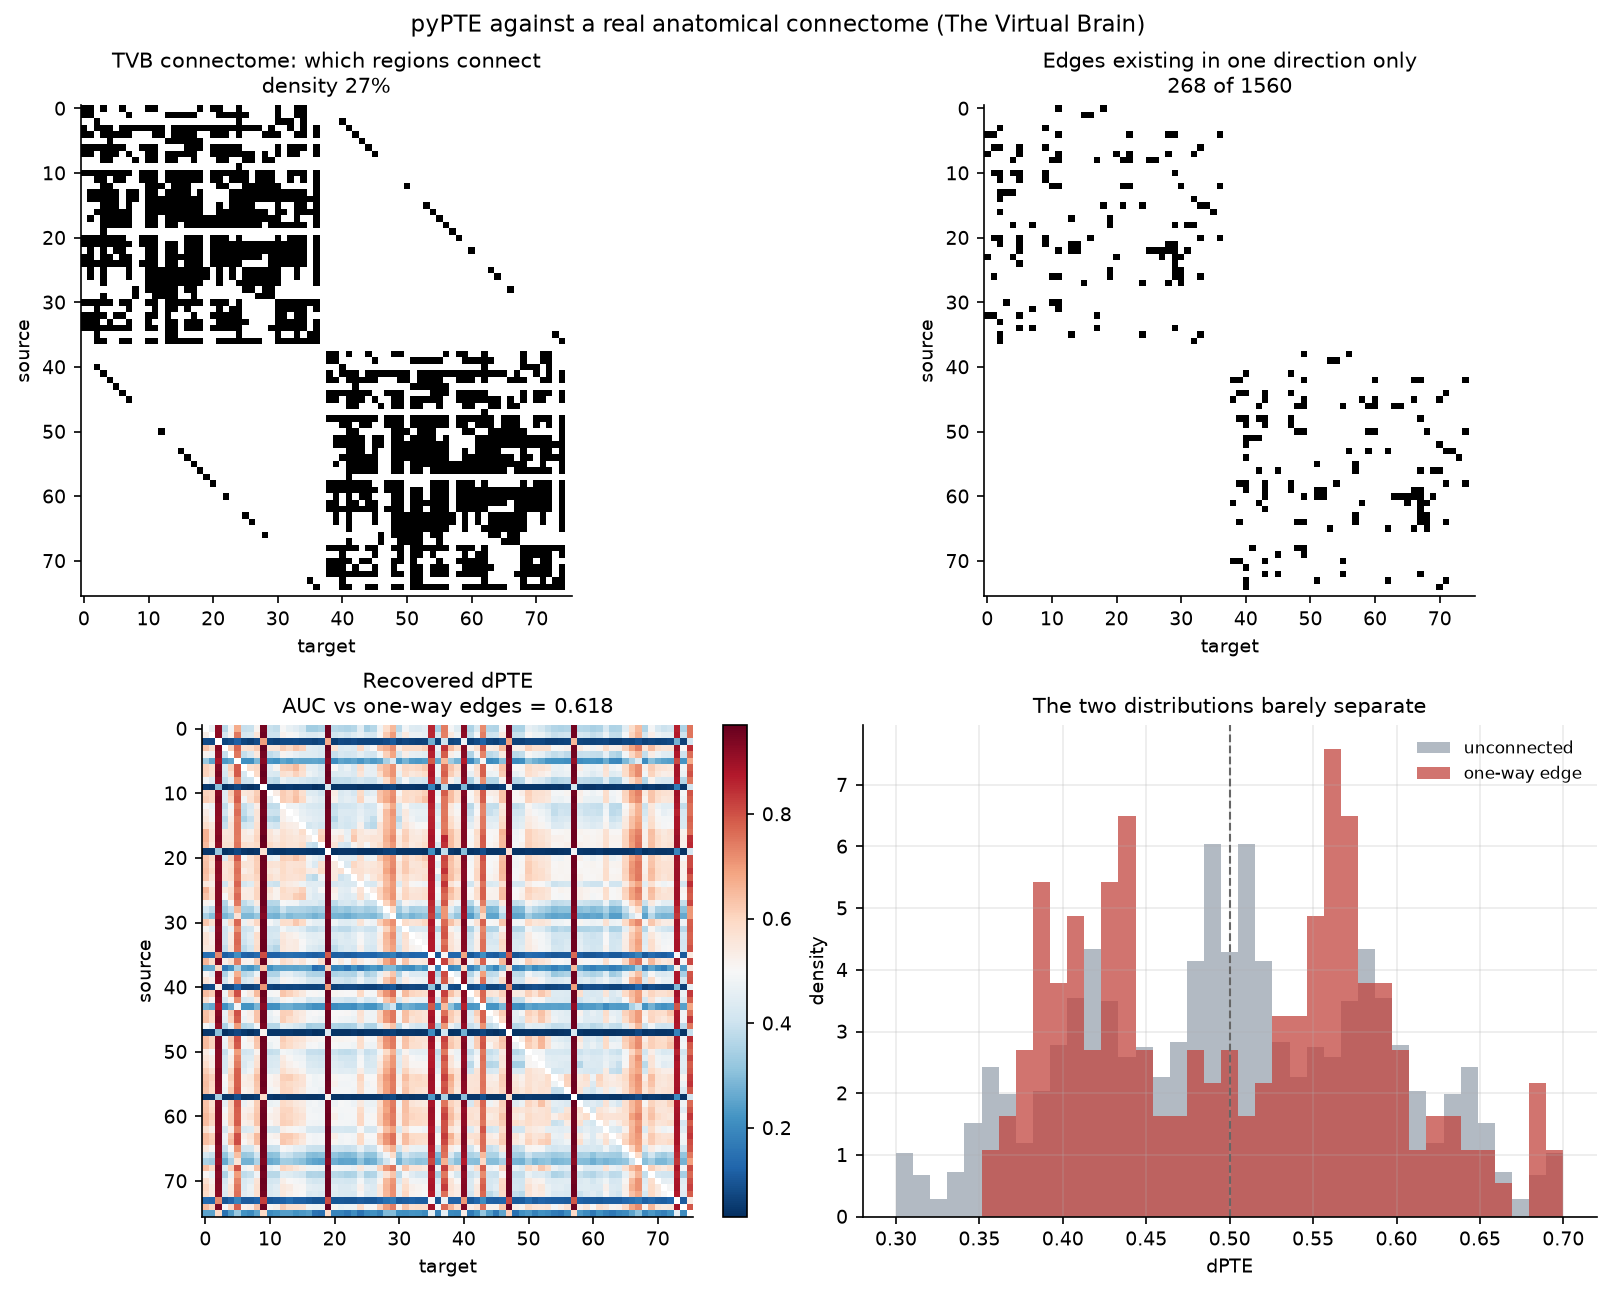
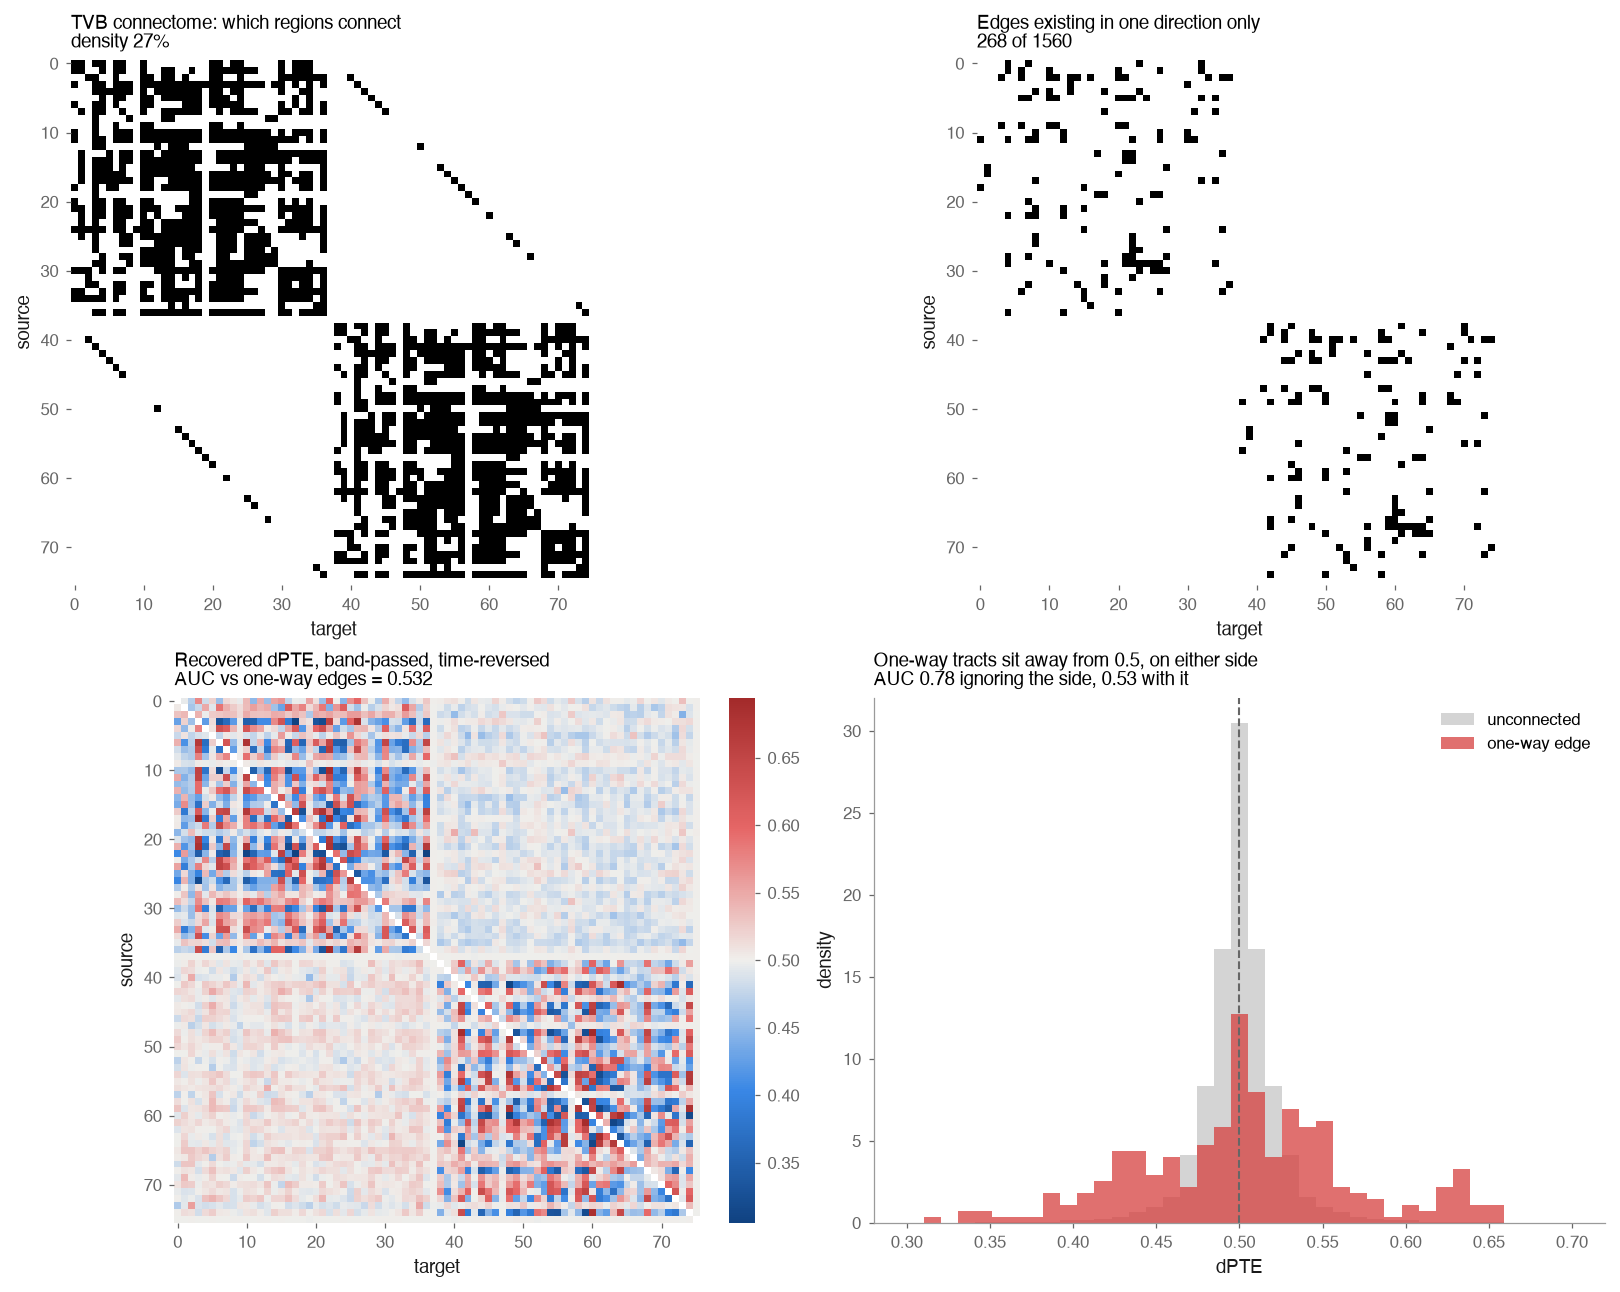
fix(examples): score TVB against its connectome the right way round (#106)
TVB stores weights[to, from]: its coupling sums weights[i, j] times
region j into region i. The example and the large-networks tutorial
scored dPTE[i, j] against weights[i, j], i.e. the transposed anatomy.
The published AUC of 0.62 was region amplitude (rank-identical to input
strength) scored against that transpose; plain dPTE against the real
orientation scores 0.39, below chance.

Both now band-pass, use time reversal and locking bins through shared
helpers. dPTE then sees that regions connect (AUC 0.78 on |dPTE - 0.5|)
but not which way (0.53).

diff --git a/examples/tvb_connectome.py b/examples/tvb_connectome.py
@@ -3,14 +3,21 @@ Run pyPTE against a real anatomical connectome, and mostly fail.
 ================================================================
 
 Uses The Virtual Brain's 76-region tract-tracing connectome, so the
-directionality is real anatomy rather than something we invented. pyPTE only
-reaches AUC 0.62 here, against 0.96 to 1.00 on the sparse synthetic networks in
-the other examples. The connectome is 27% dense, so nearly every pair of regions
-is joined by a short indirect path, and dPTE ranks indirect paths above direct
-ones.
+directionality is real anatomy rather than something we invented. Band-passed
+and analysed with time reversal, dPTE sees that two regions are connected but
+not which way: how far it sits from 0.5, on either side, separates one-way
+tracts from unconnected pairs at an AUC of about 0.78, while its sign does so
+at about 0.53, barely above chance. The connectome is 27% dense, so nearly
+every pair of regions is also joined by short indirect paths, which can run
+either way.
 
-Scale also makes edgewise significance testing impractical: 5700 pairs need
-p below 1e-5, but N surrogates cannot go below 1/(N+1).
+Plain dPTE does worse than chance, at about 0.39. Regions that receive more
+input oscillate more strongly, which makes their rhythm cleaner, and dPTE reads
+the cleaner channel as the driver: the opposite of the anatomy. Time reversal
+cancels that.
+
+Scale also makes edgewise significance testing impractical: 2850 channel pairs
+need p below 2e-5, but N surrogates cannot go below 1/(N+1).
 
 Needs the optional TVB group:
     uv sync --group examples --group tvb
@@ -22,8 +29,8 @@ import warnings
 
 import matplotlib.pyplot as plt
 import numpy as np
-from scipy.signal import welch
-from scipy.stats import rankdata
+from scipy.signal import butter, sosfiltfilt, welch
+from scipy.stats import rankdata, spearmanr
 
 from examples.utils import style
 from examples.utils.plotting import FIGURES, plot_matrix, save, use_house_style
@@ -53,6 +60,30 @@ def load_tvb():
             "    uv sync --group examples --group tvb"
         ) from exc
     return simulator, models, connectivity, coupling, integrators, monitors, noise
+
+
+def tracts(brain) -> np.ndarray:
+    """Tract strengths with ``[i, j]`` the connection from region i to j.
+
+    TVB stores ``weights[to, from]``: its coupling sums ``weights[i, j]``
+    times region j's activity into region i. dPTE's ``[i, j]`` is flow from i
+    to j, so the anatomy is the transpose.
+    """
+    return np.asarray(brain.weights).T
+
+
+def narrow_band(signal: np.ndarray) -> np.ndarray:
+    """Band-pass every region to 1.5 Hz either side of the shared peak."""
+    freqs, power = welch(signal, fs=FS, nperseg=1024)
+    peak = float(freqs[np.argmax(power.mean(axis=0))])
+    band = butter(4, [peak - 1.5, peak + 1.5], btype="band", fs=FS, output="sos")
+    return sosfiltfilt(band, signal, axis=1, padlen=int(FS))
+
+
+def flow(signal: np.ndarray) -> np.ndarray:
+    """dPTE as it should be run: band-passed, time-reversed, bins for direction."""
+    dPTE, _ = PTE(narrow_band(signal), time_reversal=True, binning="locking")
+    return dPTE
 
 
 def auc(scores: np.ndarray, truth: np.ndarray) -> float:
@@ -103,7 +134,7 @@ def main(quick: bool = False) -> None:
 
     print(f"simulating {seconds:.0f}s of whole-brain activity ...")
     brain, signal = simulate(seconds)
-    weights = brain.weights
+    weights = tracts(brain)
     n_regions = weights.shape[0]
 
     freqs, power = welch(signal[0], fs=FS, nperseg=512)
@@ -117,10 +148,17 @@ def main(quick: bool = False) -> None:
     density = float((weights > 0).sum() / off_diagonal.sum())
 
     print("running PTE ...")
-    dPTE, _ = PTE(signal)
+    dPTE = flow(signal)
+    plain, _ = PTE(signal)
 
     considered = one_way | unconnected
     score = auc(dPTE[considered], one_way[considered])
+    plain_score = auc(plain[considered], one_way[considered])
+    # how far from 0.5, ignoring which side: does dPTE see a tract at all?
+    strength = np.abs(dPTE - 0.5)
+    existence_score = auc(strength[considered], one_way[considered])
+    # input received, against how strongly each region oscillates
+    amplitude_rho = float(spearmanr(weights.sum(axis=0), signal.std(axis=1)).statistic)
 
     fig, axes = plt.subplots(2, 2, figsize=(11, 8.5), constrained_layout=True)
 
@@ -146,7 +184,10 @@ def main(quick: bool = False) -> None:
     plot_matrix(
         axes[1, 0],
         dPTE,
-        title=f"Recovered dPTE\nAUC vs one-way edges = {score:.3f}",
+        title=(
+            "Recovered dPTE, band-passed, time-reversed\n"
+            f"AUC vs one-way edges = {score:.3f}"
+        ),
         center_on_half=True,
         mask_diagonal=True,
     )
@@ -173,21 +214,32 @@ def main(quick: bool = False) -> None:
     ax.set(
         xlabel="dPTE",
         ylabel="density",
-        title="The two distributions barely separate",
+        title=(
+            f"One-way tracts sit away from 0.5, on either side\n"
+            f"AUC {existence_score:.2f} ignoring the side, {score:.2f} with it"
+        ),
     )
     ax.legend(fontsize=8)
 
     save(fig, FIGURES / "tvb_connectome.png")
 
     # a second, practical obstacle at this scale: the surrogate count sets a
-    # floor of 1 / (n_surrogates + 1) on any p-value, while FDR over m*(m-1)
-    # pairs demands far smaller ones
-    n_pairs = int(off_diagonal.sum())
+    # floor of 1 / (n_surrogates + 1) on any p-value, while FDR over this many
+    # pairs demands far smaller ones. dPTE in one direction fixes the other, so
+    # Benjamini-Hochberg in effect runs over channel pairs, half the ordered ones
+    n_pairs = int(off_diagonal.sum()) // 2
     n_surrogates = 60
     print(f"surrogate testing with {n_surrogates} surrogates ...")
-    significance = surrogate_test(signal, n_surrogates=n_surrogates, seed=0)
+    significance = surrogate_test(
+        narrow_band(signal),
+        n_surrogates=n_surrogates,
+        seed=0,
+        binning="locking",
+        time_reversal=True,
+    )
     floor = 1.0 / (n_surrogates + 1)
     strictest = 0.05 / n_pairs
+    survived = int(significance.directed.sum())
 
     print("\nresults")
     print(f"  regions                       {n_regions}")
@@ -195,9 +247,12 @@ def main(quick: bool = False) -> None:
     print(f"  one-way edges                 {int(one_way.sum())}")
     print(f"  symmetric pairs               {int(symmetric.sum())}")
     print(f"  AUC, one-way vs unconnected   {score:.3f}   (0.5 = chance)")
+    print(f"  AUC with plain dPTE           {plain_score:.3f}   (below chance)")
+    print(f"  AUC of |dPTE - 0.5|           {existence_score:.3f}   (either way)")
+    print(f"  input strength vs amplitude   rho {amplitude_rho:.2f}")
     print(f"  mean dPTE on one-way edges    {dPTE[one_way].mean():.3f}")
     print(f"  mean dPTE on unconnected      {dPTE[unconnected].mean():.3f}")
-    print(f"  edges surviving surrogates    {significance.n_significant} of {n_pairs}")
+    print(f"  pairs surviving surrogates    {survived} of {n_pairs}")
     print(f"  smallest p reachable          {floor:.4f}  (1 / (surrogates + 1))")
     print(f"  strictest FDR threshold       {strictest:.2e}  (0.05 / {n_pairs})")
 
@@ -217,25 +272,27 @@ def main(quick: bool = False) -> None:
         f"AUC rose to {score:.3f}; structural recovery is documented as close to "
         "chance, so that text needs updating"
     )
+    assert existence_score > 0.65, "dPTE should still see that regions connect"
+    # and plain dPTE points against the anatomy, through amplitude
+    assert plain_score < 0.5, "plain dPTE should rank tracts below chance"
+    assert amplitude_rho > 0.8, "amplitude should follow the input a region receives"
 
     print(
         f"\nverified: the connectome is genuinely directed ({int(one_way.sum())} "
         "one-way edges),"
         f"\n          the simulation is stable and oscillatory at {peak:.1f} Hz,"
-        f"\n          and pyPTE separates real edges from non-edges at AUC "
-        f"{score:.3f}."
-        "\n\n          That is weak, and it is the expected outcome: at "
-        f"{density:.0%} density"
-        "\n          nearly every region pair is joined by a short indirect path,"
-        "\n          and dPTE ranks indirect paths above direct ones. Compare the"
-        "\n          AUC of 0.96 to 1.00 the same estimator reaches on sparse"
-        "\n          synthetic networks in kuramoto_network.py."
-        f"\n\n          Scale bites twice: {n_pairs} ordered pairs need p below "
+        "\n          and dPTE sees which regions connect (AUC "
+        f"{existence_score:.3f} on |dPTE - 0.5|)"
+        f"\n          but not which way: its sign scores {score:.3f}."
+        f"\n\n          At {density:.0%} density nearly every region pair is joined"
+        "\n          by short indirect paths, which can run either way."
+        f"\n          Plain dPTE scores {plain_score:.3f}, below chance: regions that"
+        "\n          receive more input oscillate more cleanly and read as drivers."
+        f"\n\n          Scale bites twice: {n_pairs} channel pairs need p below "
         f"{strictest:.1e},"
         f"\n          but {n_surrogates} surrogates cannot produce a p below "
         f"{floor:.3f}, so"
-        f"\n          {significance.n_significant} edges survive. Whole-brain "
-        "surrogate testing needs"
+        f"\n          {survived} pairs survive. Whole-brain surrogate testing needs"
         "\n          thousands of surrogates, or a cluster-level test instead."
         "\n\n          Use pyPTE to ask which way activity flows, not to infer anatomy."
     )

diff --git a/docs/tutorials/large_networks.py b/docs/tutorials/large_networks.py
@@ -15,10 +15,11 @@ run on every documentation build, so this page reads a cached result made by
 # %%
 # How often does a strong flow sit on a real tract?
 # -------------------------------------------------
-# Rank every ordered pair by dPTE and ask how well that ranking separates
-# one-way tracts from unconnected pairs. An AUC of 0.5 is chance; the same
-# estimator reaches 0.96 to 1.00 on the sparse synthetic networks of the
-# tutorial.
+# The activity was band-passed to its dominant rhythm and analysed with time
+# reversal. Rank every ordered pair by dPTE and ask how well that ranking
+# separates one-way tracts from unconnected pairs; an AUC of 0.5 is chance.
+# Then rank by how far dPTE sits from 0.5, on either side, which asks only
+# whether two regions are connected.
 
 from pathlib import Path
 
@@ -29,19 +30,25 @@ from examples.utils import style, teaching
 
 style.use()
 cache = np.load(Path("..") / "_data" / "tvb_flow.npz")
-weights, dPTE, labels = cache["weights"], cache["dPTE"], list(cache["labels"])
+# [i, j] is the tract from region i to region j
+tracts, dPTE, labels = cache["tracts"], cache["dPTE"], list(cache["labels"])
 
-off_diagonal = ~np.eye(weights.shape[0], dtype=bool)
-one_way = (weights > 0) & (weights.T == 0)
-unconnected = off_diagonal & (weights == 0) & (weights.T == 0)
-scores = np.concatenate([dPTE[one_way], dPTE[unconnected]])
-ranks = rankdata(scores)
+off_diagonal = ~np.eye(tracts.shape[0], dtype=bool)
+one_way = (tracts > 0) & (tracts.T == 0)
+unconnected = off_diagonal & (tracts == 0) & (tracts.T == 0)
 n_pos, n_neg = int(one_way.sum()), int(unconnected.sum())
-auc = (ranks[:n_pos].sum() - n_pos * (n_pos + 1) / 2) / (n_pos * n_neg)
-density = (weights > 0).sum() / off_diagonal.sum()
+
+
+def auc(score):
+    ranks = rankdata(np.concatenate([score[one_way], score[unconnected]]))
+    return (ranks[:n_pos].sum() - n_pos * (n_pos + 1) / 2) / (n_pos * n_neg)
+
+
+density = (tracts > 0).sum() / off_diagonal.sum()
 print(
-    f"{weights.shape[0]} regions, {density:.0%} of pairs connected, "
-    f"{n_pos} one-way tracts, AUC {auc:.2f}"
+    f"{tracts.shape[0]} regions, {density:.0%} of pairs connected, "
+    f"{n_pos} one-way tracts\n"
+    f"AUC by direction {auc(dPTE):.2f}, by distance from 0.5 {auc(abs(dPTE - 0.5)):.2f}"
 )
 
 # %%
@@ -51,8 +58,9 @@ print(
 # the 60 strongest one-way tracts, mostly within a hemisphere. **b** shows the
 # 60 strongest dPTE flows, in red where a one-way tract runs the same way.
 #
-# With most region pairs connected, nearly every pair is also joined by a
-# short indirect route, and dPTE ranks those as highly as direct ones. Use it
-# to ask which way activity flows, not to infer the wiring.
+# dPTE sees that two regions are connected far better than which way the
+# tract runs. With most region pairs connected, nearly every pair is also
+# joined by short indirect routes, which can run either way. Use it to ask
+# which way activity flows, not to infer the wiring.
 
-teaching.chord_pair(weights, dPTE, labels)
+teaching.chord_pair(tracts, dPTE, labels)

diff --git a/docs/_ext/make_tvb_flow.py b/docs/_ext/make_tvb_flow.py
@@ -15,20 +15,21 @@ import numpy as np
 ROOT = Path(__file__).resolve().parents[2]
 sys.path.insert(0, str(ROOT))
 
-from examples.tvb_connectome import simulate  # noqa: E402
-from pyPTE import PTE  # noqa: E402
+from examples.tvb_connectome import flow, simulate, tracts  # noqa: E402
 
 SECONDS = 120.0
 
 with warnings.catch_warnings():
     warnings.simplefilter("ignore")
     brain, signal = simulate(SECONDS)
-dPTE, _ = PTE(signal)
+# band-passed and time-reversed, as the example runs it
+dPTE = flow(signal)
 
 out = ROOT / "docs" / "_data" / "tvb_flow.npz"
 np.savez_compressed(
     out,
-    weights=brain.weights.astype(np.float32),
+    # [i, j] is the tract from region i to j; TVB stores the transpose
+    tracts=tracts(brain).astype(np.float32),
     dPTE=dPTE.astype(np.float32),
     labels=np.array([str(label) for label in brain.region_labels]),
     seconds=SECONDS,

diff --git a/docs/guide/pitfalls.md b/docs/guide/pitfalls.md
@@ -68,11 +68,21 @@ will penalise it for being right.
 
 ## On a real connectome, structural recovery largely fails
 
-Against The Virtual Brain's directed 76-region tract-tracing connectome, pyPTE
-separates one-way edges from unconnected pairs at **AUC 0.62** — above chance,
-but far from the 0.96–1.00 the same estimator reaches on sparse synthetic
-networks. At 27% density nearly every region pair is joined by a short indirect
-path, which is the previous caveat operating at whole-brain scale.
+Against The Virtual Brain's directed 76-region tract-tracing connectome,
+band-passed and time-reversed dPTE sees *that* two regions are connected but
+not which way. How far it sits from 0.5, on either side, separates one-way
+tracts from unconnected pairs at **AUC 0.78**; its sign does so at **0.53**,
+barely above chance. At 27% density nearly every region pair is also joined by
+short indirect paths, which is the previous caveat operating at whole-brain
+scale.
+
+Plain dPTE scores **0.39**, below chance. Regions that receive more input
+oscillate more strongly (rank correlation 1.0), so their rhythm is cleaner,
+and dPTE reads the cleaner channel as the driver: the signal-to-noise artefact
+again, here pointing against the anatomy. An earlier version of this page
+reported AUC 0.62; that came from the same artefact, scored against the
+connectome transposed. TVB stores its weights as `[to, from]`
+([#106](https://github.com/patrk/pyPTE/issues/106)).
 
 Scale bites twice. With `m` regions there are `m * (m - 1) / 2` channel pairs —
 2,850 here — so the strictest FDR threshold falls below `2e-5`, while `N` surrogates cannot

diff --git a/examples/README.md b/examples/README.md
@@ -98,14 +98,17 @@ bundled 76-region connectome, derived from tract-tracing rather than diffusion
 imaging, so the directionality is genuine anatomy: 268 of its 1,560 edges exist
 in one direction only, while tract lengths are correctly symmetric.
 
-The result is largely negative, which is why it is worth running. pyPTE
-separates one-way edges from unconnected pairs at **AUC 0.62**, against 0.96–1.00
-for the sparse synthetic networks above. At 27% density nearly every region pair
-is joined by a short indirect path — the same limitation as example 5, at whole-
-brain scale.
+The result is largely negative, which is why it is worth running. Band-passed
+and time-reversed, dPTE sees which regions connect (|dPTE − 0.5| separates
+one-way tracts from unconnected pairs at **AUC 0.78**) but not which way: its
+sign scores **0.53**. At 27% density nearly every region pair is also joined by
+short indirect paths — the same limitation as example 5, at whole-brain scale.
+Plain dPTE scores 0.39, below chance, because regions receiving more input
+oscillate more cleanly and read as drivers. TVB stores its weights as
+`[to, from]`, so the example scores dPTE against their transpose.
 
-It also runs into an arithmetic wall: 5,700 ordered pairs put the strictest FDR
-threshold below `1e-5`, while `N` surrogates cannot yield a p-value below
+It also runs into an arithmetic wall: 2,850 channel pairs put the strictest FDR
+threshold below `2e-5`, while `N` surrogates cannot yield a p-value below
 `1 / (N + 1)`, so nothing survives edgewise testing at a practical surrogate
 count. Use `cluster_permutation` at this scale.
 
